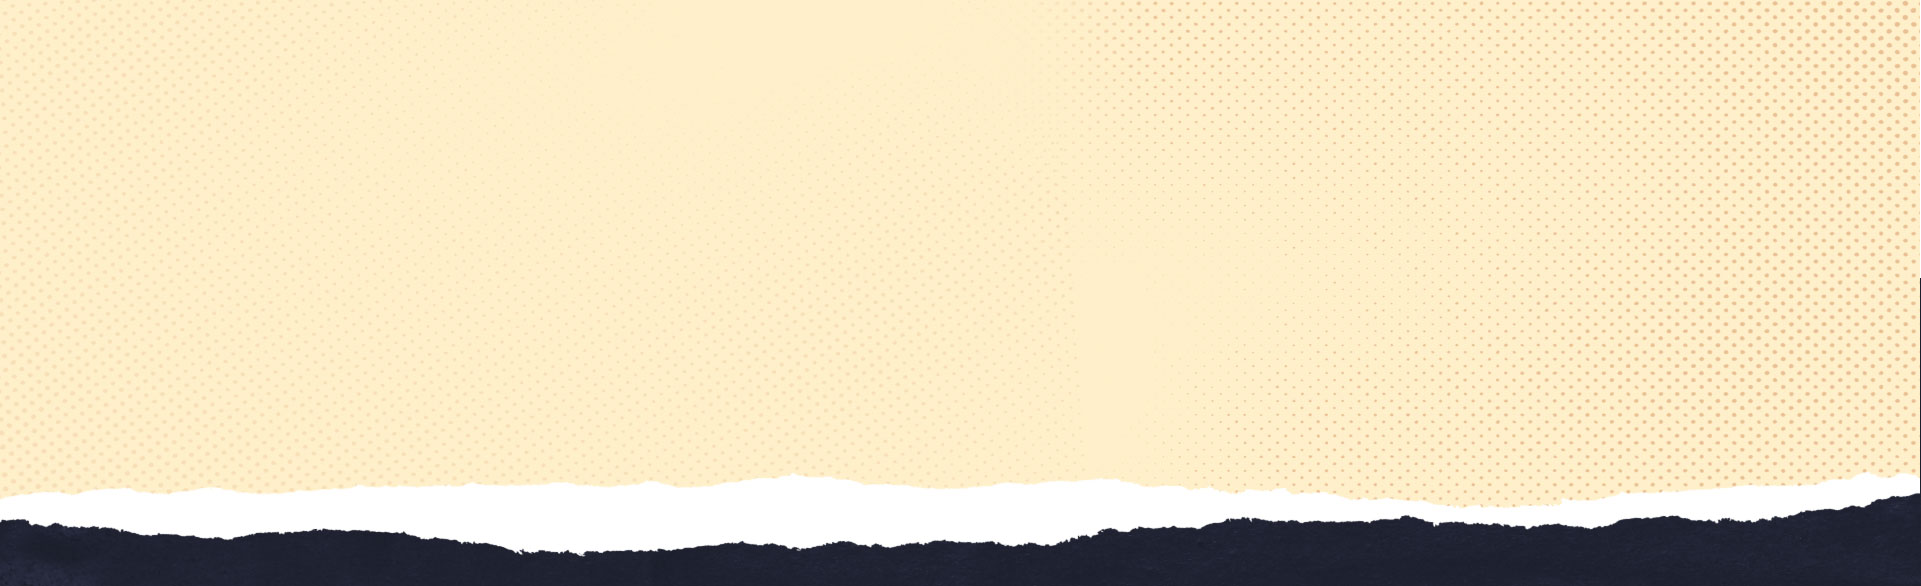
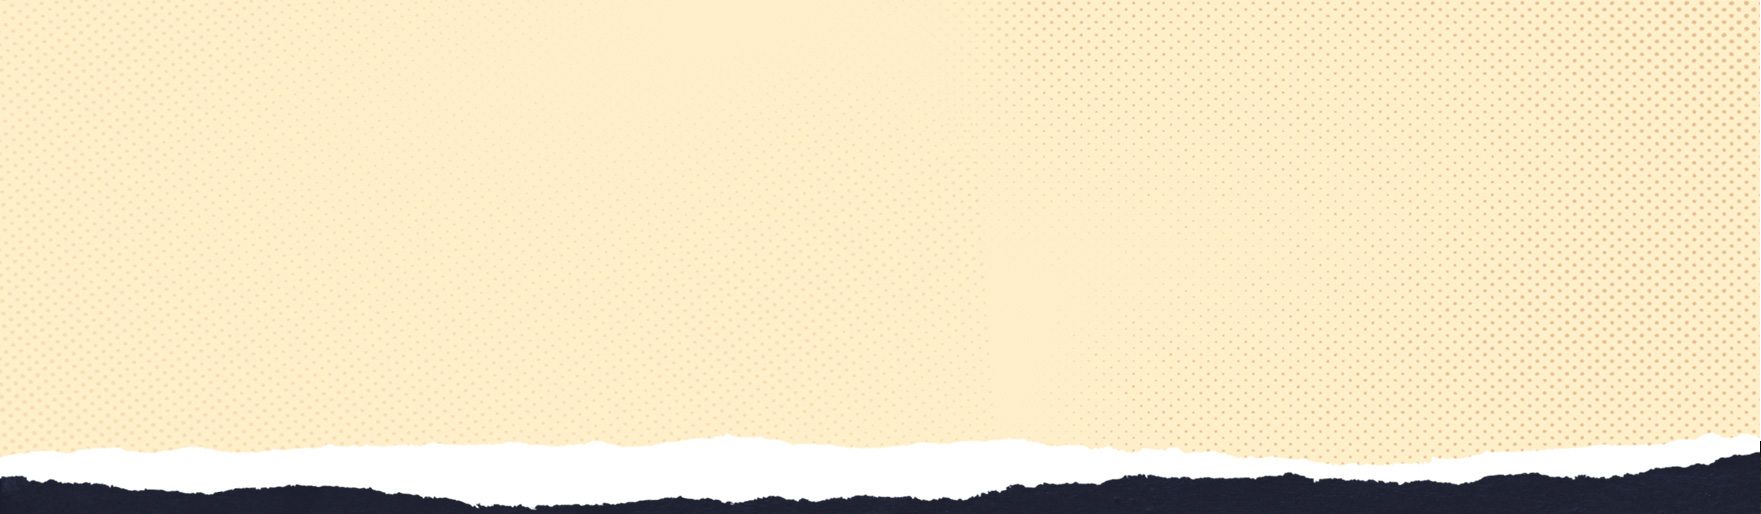
feat: update Fanta project page with video elements replacing images, enhance layout with new background styles, and improve media handling

Changed region(s): [[0.0, 0.0623, 1.0, 0.9961], [0.6559, 0.1245, 0.6871, 0.1868], [0.9994, 0.9961, 1.0, 1.0]]

diff --git a/fanta.html b/fanta.html
@@ -38,7 +38,7 @@
 
     <!-- ── HERO ── -->
     <div class="hellofresh-page-hero layout--bleed" aria-label="Fanta sponsorship preview">
-      <img src="images/fanta/Fanta_top.png" alt="Fanta sponsorship"
+      <img src="images/fanta/Fanta_top.jpg" alt="Fanta sponsorship"
         class="hellofresh-page-hero__img" />
     </div>
 
@@ -75,11 +75,10 @@
       </div>
 
       <div class="fanta-takeover__media">
-        <img src="images/fanta/takeover_video.jpg" alt="Fanta takeover stream preview"
-          class="fanta-takeover__video" />
-        <button type="button" class="fanta-takeover__play" aria-label="Play takeover preview">
-          <img src="images/stream-packages/Play-btn.svg" alt="" />
-        </button>
+        <video class="fanta-takeover__video" autoplay muted loop playsinline preload="metadata"
+          poster="images/fanta/takeover_video.jpg" aria-label="Fanta takeover stream preview">
+          <source src="images/fanta/videos/Fanta_takeover.webm" type="video/webm" />
+        </video>
       </div>
     </section>
 
@@ -94,49 +93,25 @@
         </div>
       </div>
 
-      <div class="fanta-branded__videos">
+      <div class="fanta-branded__videos layout--wide">
         <div class="fanta-branded__stack">
           <div class="fanta-branded__item">
-            <img src="images/fanta/video_1.png" alt="Fanta Orange — scene preview"
-              class="fanta-branded__image" />
-            <button type="button" class="fanta-branded__play" aria-label="Play Fanta Orange scene preview">
-              <img src="images/stream-packages/Play-btn.svg" alt="" />
-            </button>
+            <video class="fanta-branded__image" autoplay muted loop playsinline preload="none"
+              poster="images/fanta/video_1.png" aria-label="Fanta Orange — Starting Soon">
+              <source src="images/fanta/videos/Fanta_StartingSoon.webm" type="video/webm" />
+            </video>
           </div>
           <div class="fanta-branded__item">
-            <img src="images/fanta/video_2.png" alt="Fanta Orange — Starting Soon"
-              class="fanta-branded__image" />
-            <button type="button" class="fanta-branded__play" aria-label="Play Starting Soon preview">
-              <img src="images/stream-packages/Play-btn.svg" alt="" />
-            </button>
+            <video class="fanta-branded__image" autoplay muted loop playsinline preload="none"
+              poster="images/fanta/video_3.png" aria-label="Fanta Pineapple — Be Right Back">
+              <source src="images/fanta/videos/Fanta_BRB.webm" type="video/webm" />
+            </video>
           </div>
           <div class="fanta-branded__item">
-            <img src="images/fanta/video_3.png" alt="Fanta Pineapple — scene preview"
-              class="fanta-branded__image" />
-            <button type="button" class="fanta-branded__play" aria-label="Play Fanta Pineapple scene preview">
-              <img src="images/stream-packages/Play-btn.svg" alt="" />
-            </button>
-          </div>
-          <div class="fanta-branded__item">
-            <img src="images/fanta/video_4.png" alt="Fanta Pineapple — Be Right Back"
-              class="fanta-branded__image" />
-            <button type="button" class="fanta-branded__play" aria-label="Play Be Right Back preview">
-              <img src="images/stream-packages/Play-btn.svg" alt="" />
-            </button>
-          </div>
-          <div class="fanta-branded__item">
-            <img src="images/fanta/video_5.png" alt="Fanta Lemon — scene preview"
-              class="fanta-branded__image" />
-            <button type="button" class="fanta-branded__play" aria-label="Play Fanta Lemon scene preview">
-              <img src="images/stream-packages/Play-btn.svg" alt="" />
-            </button>
-          </div>
-          <div class="fanta-branded__item">
-            <img src="images/fanta/video_6.png" alt="Fanta Lemon — Stream Ended"
-              class="fanta-branded__image" />
-            <button type="button" class="fanta-branded__play" aria-label="Play Stream Ended preview">
-              <img src="images/stream-packages/Play-btn.svg" alt="" />
-            </button>
+            <video class="fanta-branded__image" autoplay muted loop playsinline preload="none"
+              poster="images/fanta/video_5.png" aria-label="Fanta Lemon — Stream Ended">
+              <source src="images/fanta/videos/Fanta_SE.webm" type="video/webm" />
+            </video>
           </div>
         </div>
       </div>
@@ -158,32 +133,28 @@
       <div class="fanta-alerts__media">
         <div class="fanta-alerts__stack">
           <div class="fanta-alerts__item">
-            <img src="images/fanta/video_7.jpg" alt="Fanta sponsorship stream overlay preview"
-              class="fanta-alerts__image" />
-            <button type="button" class="fanta-alerts__play" aria-label="Play stream overlay preview">
-              <img src="images/stream-packages/Play-btn.svg" alt="" />
-            </button>
+            <video class="fanta-alerts__image" autoplay muted loop playsinline preload="none"
+              poster="images/fanta/video_7.jpg" aria-label="Fanta sponsorship stream overlay preview">
+              <source src="images/fanta/videos/Fanta_Alert.webm" type="video/webm" />
+            </video>
           </div>
           <div class="fanta-alerts__item">
-            <img src="images/fanta/video_8.png" alt="Fanta alerts — donation and subscription"
-              class="fanta-alerts__image" />
-            <button type="button" class="fanta-alerts__play" aria-label="Play alerts preview">
-              <img src="images/stream-packages/Play-btn.svg" alt="" />
-            </button>
+            <video class="fanta-alerts__image" autoplay muted loop playsinline preload="none"
+              poster="images/fanta/video_8.png" aria-label="Fanta alerts — donation and subscription">
+              <source src="images/fanta/videos/Fanta_Alerts%2BQR.webm" type="video/webm" />
+            </video>
           </div>
           <div class="fanta-alerts__item">
-            <img src="images/fanta/video_9.png" alt="Fanta poll — What is your favorite flavor?"
-              class="fanta-alerts__image" />
-            <button type="button" class="fanta-alerts__play" aria-label="Play poll preview">
-              <img src="images/stream-packages/Play-btn.svg" alt="" />
-            </button>
+            <video class="fanta-alerts__image" autoplay muted loop playsinline preload="none"
+              poster="images/fanta/video_9.png" aria-label="Fanta poll — What is your favorite flavor?">
+              <source src="images/fanta/videos/Fanta_polling.webm" type="video/webm" />
+            </video>
           </div>
           <div class="fanta-alerts__item">
-            <img src="images/fanta/video_10.png" alt="Fanta.com sponsored stream banner"
-              class="fanta-alerts__image" />
-            <button type="button" class="fanta-alerts__play" aria-label="Play banner preview">
-              <img src="images/stream-packages/Play-btn.svg" alt="" />
-            </button>
+            <video class="fanta-alerts__image" autoplay muted loop playsinline preload="none"
+              poster="images/fanta/video_10.png" aria-label="Fanta.com sponsored stream banner">
+              <source src="images/fanta/videos/Fanta_instream_banner.webm" type="video/webm" />
+            </video>
           </div>
         </div>
       </div>

diff --git a/style.css b/style.css
@@ -2618,16 +2618,30 @@ html:has(body.page-dark) {
 }
 
 .fanta-branded__videos {
-  width: min(100vw, var(--site-max-width));
-  max-width: var(--site-max-width);
-  margin-inline: calc(50% - min(50vw, var(--site-max-width) / 2));
+  position: relative;
+  isolation: isolate;
+  background-color: #0d1a3a;
+  padding: clamp(24px, 3vw, 40px) clamp(20px, 4vw, 48px) clamp(32px, 4vw, 56px);
+  box-sizing: border-box;
+}
+
+.fanta-branded__videos::before {
+  content: "";
+  position: absolute;
+  inset: 0;
+  z-index: -1;
+  pointer-events: none;
   background-color: #0d1a3a;
   background-image: url('images/fanta/branded_videos_bg.jpg');
   background-size: cover;
   background-repeat: no-repeat;
   background-position: center center;
-  padding: clamp(24px, 3vw, 40px) clamp(20px, 4vw, 48px) clamp(32px, 4vw, 56px);
-  box-sizing: border-box;
+}
+
+.fanta-branded__videos.layout--wide {
+  width: 100%;
+  max-width: var(--site-max-width);
+  margin-inline: auto;
 }
 
 .fanta-branded__stack {